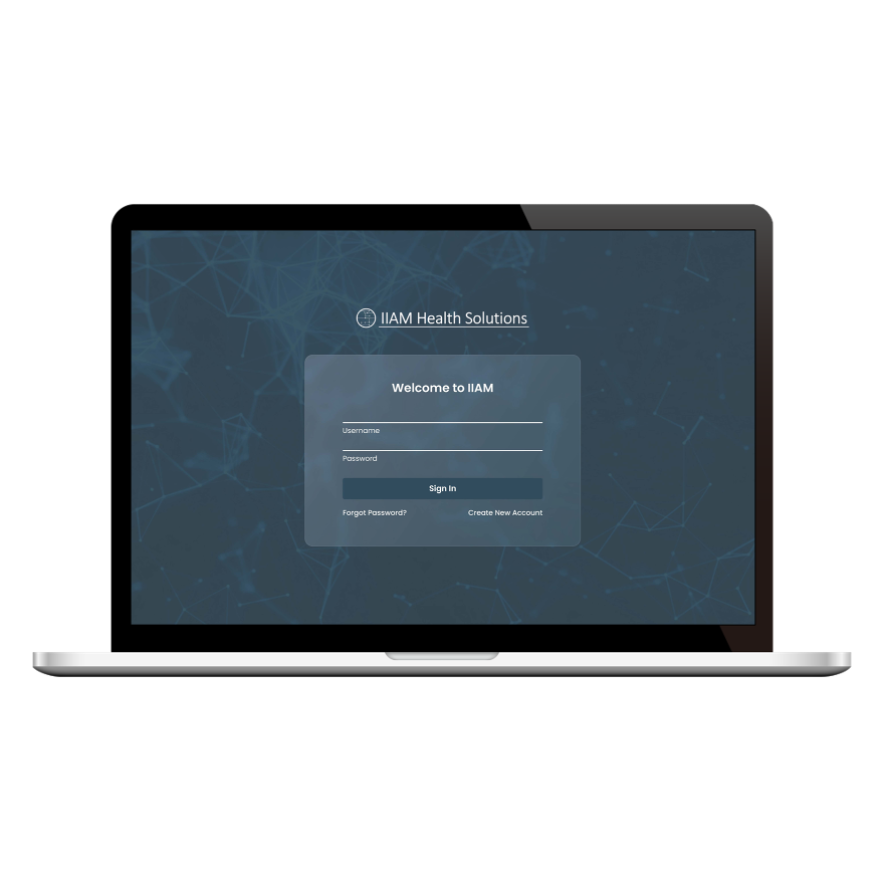
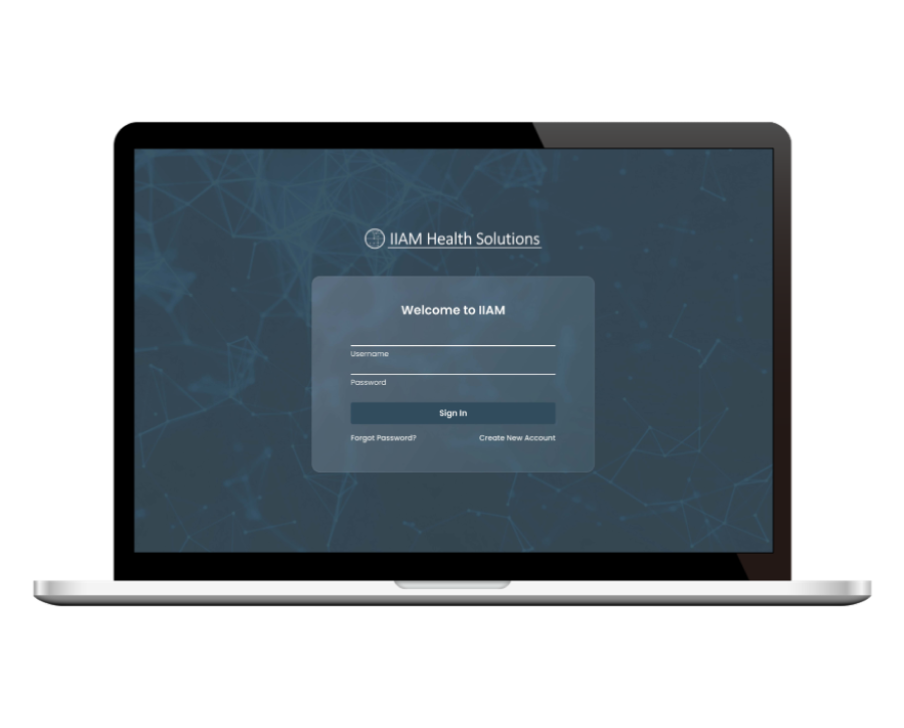
Fixed App.js to correctly show the output
Also fixed Main.js to show the updated figma design

Changed region(s): [[0.0306, 0.6951, 0.9785, 0.8462], [0.1223, 0.1511, 0.8867, 0.272], [0.3364, 0.3022, 0.6421, 0.6648]]

diff --git a/src/Components/Main.js b/src/Components/Main.js
@@ -33,45 +33,94 @@ const Main = () => {
   }, []);
   return (
     <section
-      className="w-[1280px] h-[576px] overflow-hidden text-left text-[48px] text-whitesmoke font-arial-black"
+      className="flex flex-col md:flex-row items-center md:items-start justify-between md:justify-between md:pt-[15vh] md:px-[150px] p-4 md:p-10 gap-4 md:gap-  text-left text-[3.5vw] text-whitesmoke font-arial-black"
       id="main"
     >
-      <div className="absolute top-[95px] left-[727px] w-[452px] h-[369px] overflow-hidden flex flex-col items-center justify-end">
+      <div className="flex flex-col w-[50vw] gap-8 items-center md:items-start justify-center md:justify-start">
+        <div
+          className="overflow-hidden w-full flex flex-col items-start justify-start [&.animate]:animate-[1s_ease_0s_1_normal_forwards_slide-in-top] opacity-[0]"
+          data-animate-on-scroll
+        >
+          <h1 className="m-0 relative w-full text-inherit font-normal font-inherit inline-block w-[639px] h-[201px] shrink-0">
+            Revolutionizing the US Healthcare
+          </h1>
+        </div>
+        <div
+          className="shrink-0 flex w-full flex-col items-start justify-start gap-[11px] [&.animate]:animate-[1s_ease_0s_1_normal_forwards_slide-in-top] opacity-[0] text-[1.6vw] text-white font-arial"
+          data-animate-on-scroll
+        >
+          <p className="m-0 relative w-full font-bold inline-block w-[574px] h-[88px] shrink-0">
+            Improve Efficiency and decrease patient delays with our new patient
+            referral and predictive analytics software platform
+          </p>
+          <div className="flex flex-col pt-[5vh]">
+          <Button
+            className="relative py-2"
+            sx={{ width: 186 }}
+            color="primary"
+            name="Learn More"
+            variant="contained"
+            >
+            Learn More
+          </Button>
+          </div>
+        </div>
+      </div>
+      <div className="self-stretch overflow-hidden flex flex-col items-center justify-center">
         <img
-          className="relative w-[452px] h-[364px] object-cover [&.animate]:animate-[1s_ease_0s_1_normal_forwards_fade-in] opacity-[0]"
+          className="relative w-full h-full max-h-[60vh] max-w-[40vw] object-cover [&.animate]:animate-[1s_ease_0s_1_normal_forwards_fade-in] opacity-[0]"
           alt="Laptop"
           src="./Laptop.png"
           data-animate-on-scroll
         />
-      </div>
-      <div
-        className="absolute top-[95px] left-[88px] w-[639px] h-[200px] overflow-hidden flex flex-col items-center justify-center [&.animate]:animate-[1s_ease_0s_1_normal_forwards_slide-in-top] opacity-[0]"
-        data-animate-on-scroll
-      >
-        <h1 className="m-0 relative text-inherit font-normal font-inherit inline-block w-[639px] h-[201px] shrink-0">
-          Bringing New Patient Referrals to cloud
-        </h1>
-      </div>
-      <div
-        className="absolute top-[295px] left-[88px] w-[639px] h-[168px] flex flex-col items-start justify-start gap-[11px] [&.animate]:animate-[1s_ease_0s_1_normal_forwards_slide-in-top] opacity-[0] text-[20px] text-darkslategray font-arial"
-        data-animate-on-scroll
-      >
-        <p className="m-0 relative font-bold inline-block w-[574px] h-[88px] shrink-0">
-          Improve Efficiency and decrease patient delays with our new patient
-          referral and predictive analytics software platform
-        </p>
-        <Button
-          className="relative"
-          sx={{ width: 186 }}
-          color="primary"
-          name="Learn More"
-          variant="contained"
-        >
-          Learn More
-        </Button>
       </div>
     </section>
   );
 };
 
 export default Main;
+
+
+<section
+  className="flex flex-col md:flex-row items-center md:items-start justify-center md:justify-start p-4 md:p-10 gap-4 md:gap-8 text-left text-4xl text-white font-bold"
+  id="main"
+>
+  <div className="flex flex-col items-center md:items-start justify-center md:justify-start">
+    <div
+      className="animate-fade-in-down opacity-0" // Replace with your animation classes
+      data-animate-on-scroll
+    >
+      <h1 className="text-5xl md:text-6xl">
+        Revolutionizing the US Healthcare
+      </h1>
+    </div>
+    <div
+      className="animate-fade-in-down opacity-0 text-base md:text-lg text-white" // Replace with your animation classes
+      data-animate-on-scroll
+    >
+      <p className="font-normal my-2 md:my-4">
+        Improve Efficiency and decrease patient delays with our new patient
+        referral and predictive analytics software platform
+      </p>
+      <Button
+        className="bg-blue-600 hover:bg-blue-700 text-white font-bold py-2 px-4 rounded"
+        color="primary"
+        name="Learn More"
+        variant="contained"
+      >
+        Learn More
+      </Button>
+    </div>
+  </div>
+  <div className="animate-fade-in opacity-0" // Replace with your animation classes
+       data-animate-on-scroll
+  >
+    <img
+      className="w-full md:w-auto object-contain"
+      alt="Laptop"
+      src="./Laptop.png"
+    />
+  </div>
+</section>
+
+

diff --git a/src/Components/Navbar.js b/src/Components/Navbar.js
@@ -3,34 +3,26 @@ import { Button } from "@mui/material";
 const Navbar = () => {
   return (
     <nav
-      className="m-0 bg-gray w-[1280px] h-[89px] overflow-hidden text-left text-[35px] text-white font-arial-black"
+      className="m-0 bg-gray w-full overflow-hidden flex flex-row items-center justify-between py-[9px] px-[20px] box-border text-left text-[35px] text-white font-arial"
       id="nav"
     >
-      <div className="absolute top-[9px] left-[23px] w-[519px] h-[71px]">
+      <div className="w-[443px] shrink-0 flex flex-row items-center justify-start">
         <img
-          className="absolute top-[0px] left-[0px] w-[71px] h-[71px] object-cover"
+          className="relative w-[71px] h-[71px] object-cover"
           alt="Logo"
           src="./Logo_SQ_Trans.png"
         />
-        <p className="m-0 absolute top-[11px] left-[71px]">
+        <a href="/" className="m-0 no-underline text-white relative font-bold flex items-center w-[430px] shrink-0">
           IIAM Health Solutions
-        </p>
+        </a>
       </div>
-      <div className="absolute top-[23px] left-[587px] w-[666px] overflow-hidden flex flex-row items-center justify-start gap-[41px] text-center text-base font-montserrat">
-        <ul className="m-0 flex-1 overflow-hidden flex flex-row items-center justify-end">
+      <div className="w-[666px] overflow-hidden shrink-0 flex flex-row items-center justify-start gap-[41px] text-center text-base font-montserrat">
+        <ul className="m-0 flex-1 overflow-hidden flex flex-row  list-none items-center justify-end">
           <li className="flex-1 relative font-semibold">Product</li>
-          <li className="flex-1 relative font-semibold whitespace-pre-wrap">
-            {" "}
-            News
-          </li>
+          <li className="flex-1 relative font-semibold "> News</li>
           <li className="flex-1 relative font-semibold">About Us</li>
         </ul>
-        <Button
-          className="flex-1 relative"
-          color="primary"
-          name="Book A Demo"
-          variant="contained"
-        >
+        <Button color="primary" name="Book A Demo" variant="contained">
           Book A Demo
         </Button>
       </div>
@@ -39,3 +31,4 @@ const Navbar = () => {
 };
 
 export default Navbar;
+

diff --git a/src/App.js b/src/App.js
@@ -7,6 +7,7 @@ import {
 } from "react-router-dom";
 import BackgroundImage from "./Components/Background";
 import Navbar from "./Components/Navbar";
+import Main from "./Components/Main";
 
 function App() {
   const action = useNavigationType();
@@ -23,12 +24,12 @@ function App() {
     let title = "";
     let metaDescription = "";
 
-    switch (pathname) {
+    /* switch (pathname) {
       case "/":
         title = "";
         metaDescription = "";
         break;
-    }
+    } */
 
     if (title) {
       document.title = title;
@@ -45,9 +46,11 @@ function App() {
   }, [pathname]);
 
   return (
-    <Routes>
-      <Route path="/" element={<Navbar />} />
-    </Routes>
+    <div className="relative w-screen h-screen overflow-hidden">
+      <BackgroundImage />
+      <Navbar />
+      <Main />
+    </div>
   );
 }
 export default App;

diff --git a/src/Components/Background.js b/src/Components/Background.js
@@ -1,10 +1,10 @@
 const BackgroundImage = () => {
     return (
       <img
-        className="w-[1283px] h-[668px] overflow-hidden"
-        alt=""
-        src="./background.svg"
-      />
+      className="absolute top-0 left-0 w-full h-full object-cover"
+      alt=""
+      src="./background.svg"
+    />
     );
   };
   

diff --git a/tailwind.config.js b/tailwind.config.js
@@ -1,7 +1,7 @@
 /** @type {import('tailwindcss').Config} */
 module.exports = {
   "content": [
-    "./website/src/**/*.{js,jsx,ts,tsx}"
+    "./src/**/*.{js,jsx,ts,tsx}",
   ],
   "theme": {
     "extend": {

diff --git a/src/index.js b/src/index.js
@@ -36,9 +36,6 @@ root.render(
     </StyledEngineProvider>
  </BrowserRouter>
 );
-root.render(
-  <div>
-  </div>
-);
+
 
 reportWebVitals();
